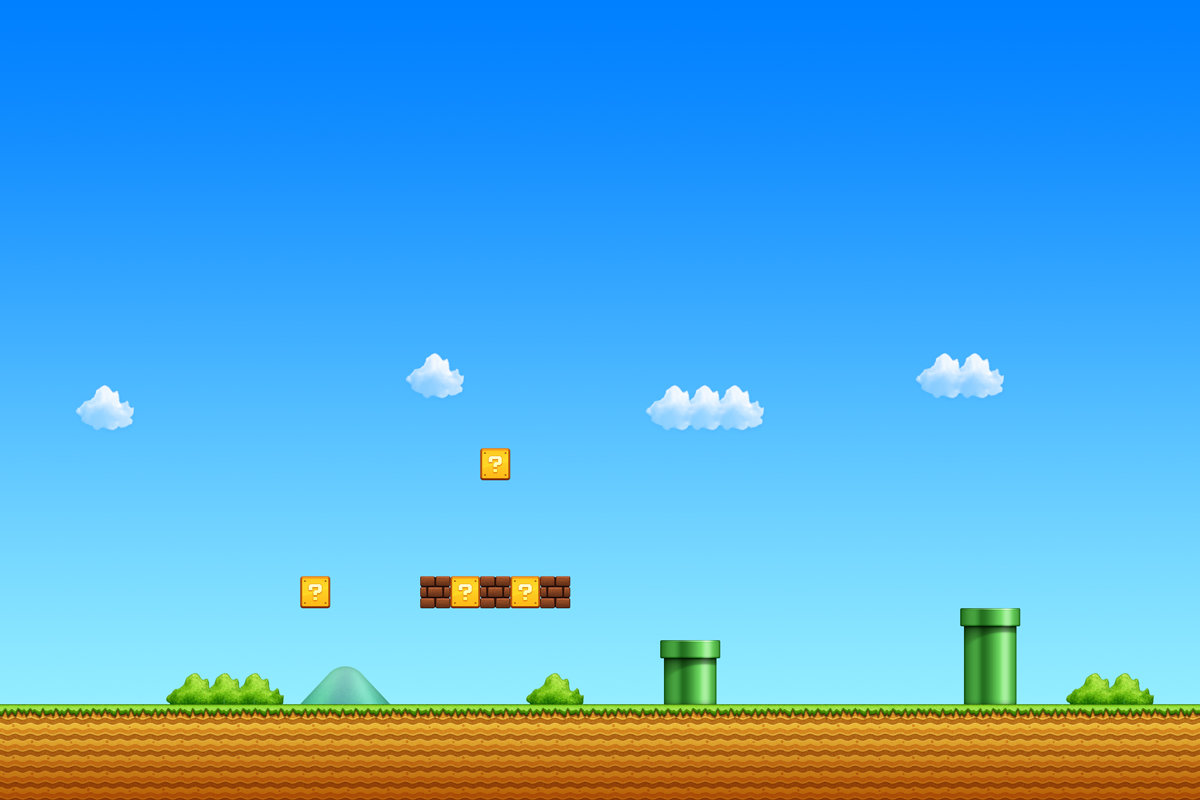
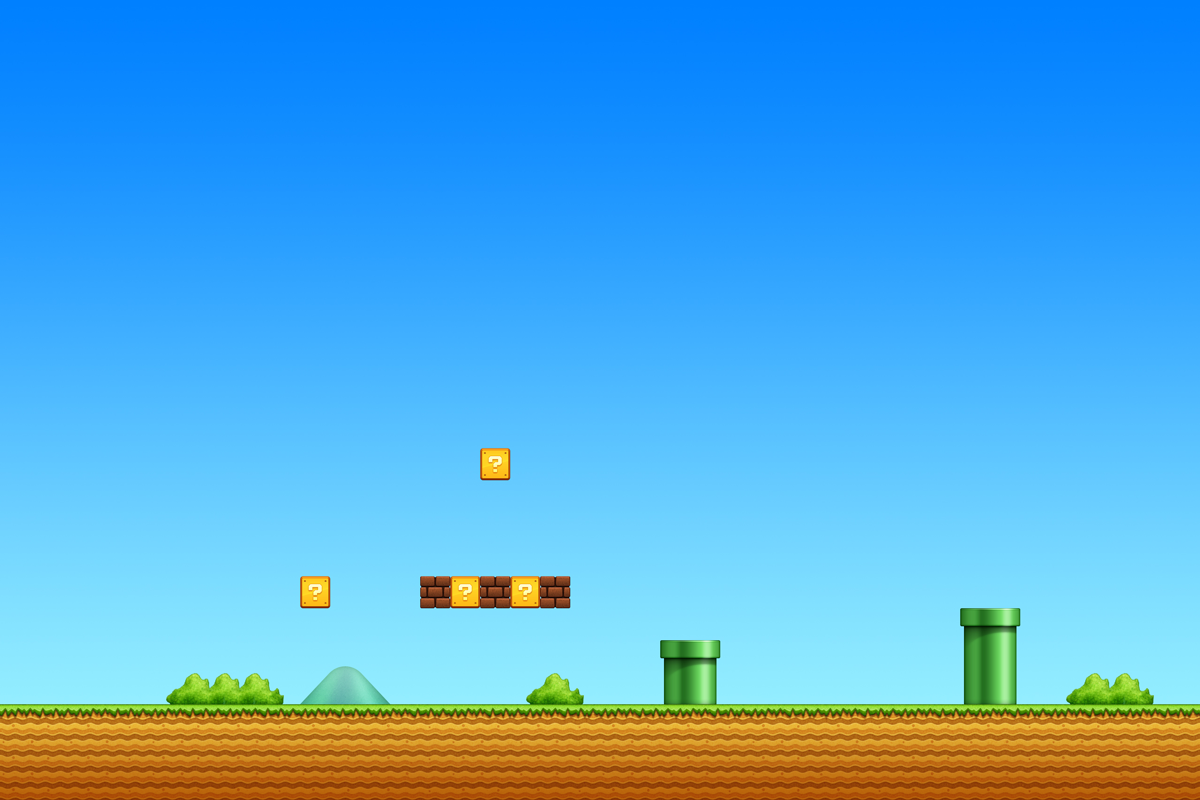
CloudMove

diff --git a/core/src/applpb/virakone/laos/MyGdxGame.java b/core/src/applpb/virakone/laos/MyGdxGame.java
@@ -11,10 +11,12 @@ import com.badlogic.gdx.graphics.g2d.SpriteBatch;
 
 public class MyGdxGame extends ApplicationAdapter {
 	SpriteBatch batch;
-	Texture wallpaperTexture;
+	Texture wallpaperTexture, cloudTexture;
 	private OrthographicCamera objOrthographicCamera;
 	private BitmapFont nameBitmapFont;
-	
+	private int xCloudAnInt, yCloudAnInt = 700;
+	private boolean cloudABoolean = true;
+
 	@Override
 	public void create () {
 		batch = new SpriteBatch();
@@ -29,6 +31,9 @@ public class MyGdxGame extends ApplicationAdapter {
 		nameBitmapFont = new BitmapFont();
 		nameBitmapFont.setColor(Color.RED);
 		nameBitmapFont.setScale(4);
+
+		//Setup Cloud
+		cloudTexture = new Texture("cloud.png");
 
 	}
 
@@ -47,9 +52,36 @@ public class MyGdxGame extends ApplicationAdapter {
 		//Draw Wallpaper
 		batch.draw(wallpaperTexture, 0 , 0);
 
+		//Draw Cloud
+		batch.draw(cloudTexture, xCloudAnInt, yCloudAnInt);
+
 		//Drawable BitmapFont
 		nameBitmapFont.draw(batch, "Coins Mario Game", 40, 760);
 
+
+
 		batch.end();
+
+		//Move Cloud
+		moveCloud();
+
+
 	}
+
+	private void moveCloud() {
+		if (cloudABoolean) {
+			if (xCloudAnInt < 1040) {
+				xCloudAnInt += 100 * Gdx.graphics.getDeltaTime();
+			} else {
+				cloudABoolean = !cloudABoolean;
+			}
+		} else {
+			if (xCloudAnInt >0) {
+				xCloudAnInt -= 100 * Gdx.graphics.getDeltaTime();
+			} else {
+				cloudABoolean = !cloudABoolean;
+			}
+		}
+
+	} //Move Cloud
 }
